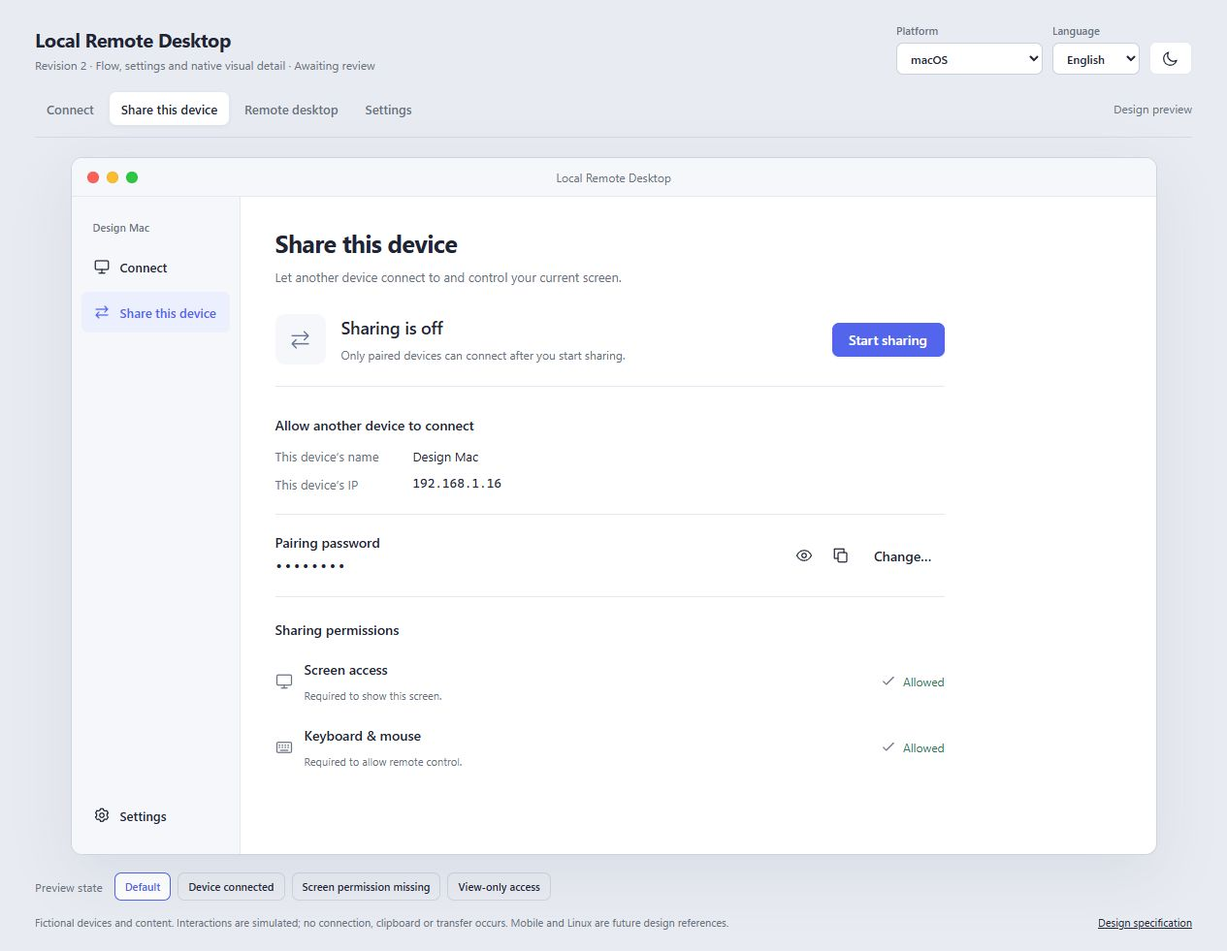
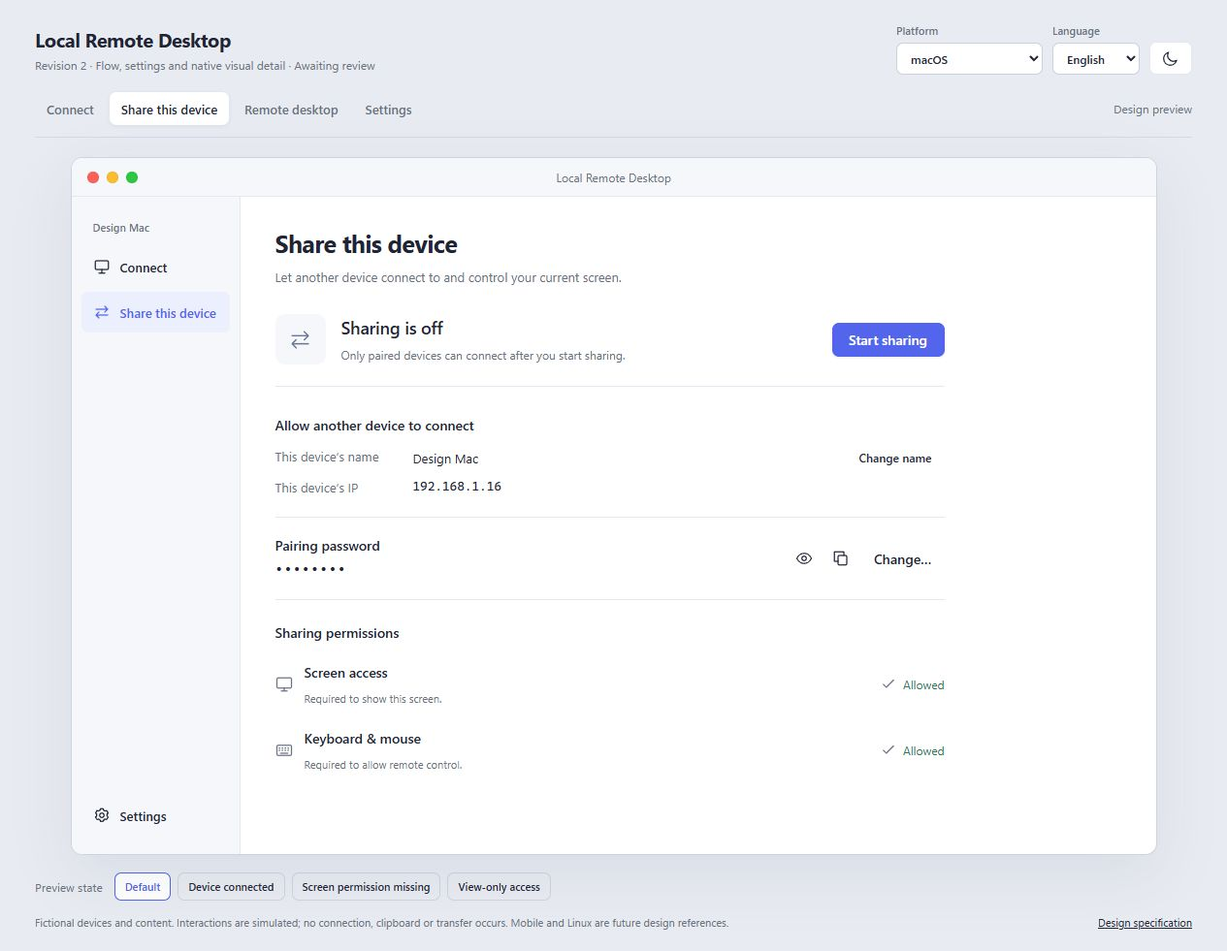
design: add local device name editing and publication contract

diff --git a/design/review/prototype.js b/design/review/prototype.js
@@ -16,7 +16,7 @@ const texts = {
     discoveredInfo:'Nearby device',knownInfo:'Previously connected device',unknownTarget:'Device information will appear after connecting.',unknownSystem:'Unknown system',manualHint:'Enter the IP and pairing password shown on the target device.',wrong:'The password is incorrect. Check it on the target device and try again.',ipError:'Enter a private or link-local IPv4 address.',
     shareIntro:'Let another device connect to and control your current screen.',off:'Sharing is off',on:'Ready for connections',inUse:'Office PC is connected',
     shareOffHint:'Only paired devices can connect after you start sharing.',shareOnHint:'Your current desktop is available to paired devices.',inUseHint:'Connected at 10:24 · Screen & control',
-    start:'Start sharing',stop:'Stop sharing',connectionDetails:'Allow another device to connect',deviceName:'This device’s name',thisIP:'This device’s IP',
+    start:'Start sharing',stop:'Stop sharing',connectionDetails:'Allow another device to connect',deviceName:'This device’s name',thisIP:'This device’s IP',nameEdit:'Change name',nameTitle:'Change this device’s name',nameHint:'Shown in the device list on other devices. Defaults to your system device name.',nameSave:'Save name',nameRestore:'Use system name',nameError:'Enter 1–32 characters without control characters.',nameSaved:'Device name updated.',
     show:'Show password',hide:'Hide password',copy:'Copy password',edit:'Change…',editTitle:'Change pairing password',newPassword:'New password',
     editHint:'Use the password below to connect to this device.',passwordHint:'8 characters, without spaces.',
     editEffect:'Saving stops sharing and disconnects the current device. Start sharing again to use the new password.',save:'Save password',cancel:'Cancel',generate:'Generate',
@@ -56,7 +56,7 @@ const texts = {
     discoveredInfo:'已发现的设备',knownInfo:'已连接的设备',unknownTarget:'连接成功后显示设备信息。',unknownSystem:'未知系统',manualHint:'输入目标设备上显示的 IP 和配对密码。',wrong:'密码不正确。请在目标设备上核对后重试。',ipError:'请输入局域网或链路本地 IPv4 地址。',
     shareIntro:'让另一台设备连接并操作你的当前屏幕。',off:'尚未共享',on:'等待连接',inUse:'Office PC 已连接',
     shareOffHint:'开始共享后，配对设备才能连接。',shareOnHint:'配对设备可以连接你的当前桌面。',inUseHint:'10:24 建立连接 · 画面与控制',
-    start:'开始共享',stop:'停止共享',connectionDetails:'被另一台设备来连接',deviceName:'本机名称',thisIP:'本机 IP',
+    start:'开始共享',stop:'停止共享',connectionDetails:'被另一台设备来连接',deviceName:'本机名称',thisIP:'本机 IP',nameEdit:'修改名称',nameTitle:'修改本机名称',nameHint:'显示在其他设备的列表中，默认使用系统本机名称。',nameSave:'保存名称',nameRestore:'使用系统名称',nameError:'请输入 1–32 个字符的名称，不含控制字符。',nameSaved:'本机名称已更新。',
     show:'显示密码',hide:'隐藏密码',copy:'复制密码',edit:'修改…',editTitle:'修改配对密码',newPassword:'新密码',
     editHint:'连接本设备时，使用下方密码。',passwordHint:'8 位，不含空格。',
     editEffect:'保存会停止共享并断开当前设备。再次开始共享后，新密码生效。',save:'保存密码',cancel:'取消',generate:'自动生成',
@@ -114,7 +114,10 @@ const devices=[
 ];
 // Authenticated responses are separate fixtures, not inferred from an IP address.
 const peerFixtures = new Map([...devices, {name:'Meeting PC',os:'Windows',ip:'192.168.1.70',kind:'screen'}].map(d=>[d.ip,{name:d.name,os:d.os,kind:d.kind}]));
-const state={page:'connect',platform:'windows',lang:'en',scenario:'normal',selected:0,sharing:false,inUse:false,reveal:false,
+// Fictional OS defaults; native clients must read their own system name.
+const systemNames={windows:'Desk PC',mac:'Design Mac',linux:'Design Linux',android:'Travel phone',ios:'Travel phone',harmony:'Travel phone'};
+function localName(){return state.localNames[state.platform]??systemNames[state.platform];}
+const state={localNames:{},page:'connect',platform:'windows',lang:'en',scenario:'normal',selected:0,sharing:false,inUse:false,reveal:false,
   password:'Blue482X',dialog:null,error:'',draft:'',draftIP:'',remember:true,inputReveal:false,options:false,keyboard:false,touch:'touchpad',fullscreen:false,
   settingTab:'connection',diagnostics:false,preferences:{text:true,files:true,reconnect:true,shortcuts:'auto',quality:'standard',theme:'system'},
   session:{text:true,files:true,shortcuts:'auto',quality:'standard'},transfer:true};
@@ -123,7 +126,7 @@ const iconButton=(name,action,label)=>`<button class="quiet icon-button" data-ac
 const choice=(id,value,keys)=>`<select id="${id}" aria-label="${esc(t(id==='defaultQuality'||id==='quality'?'quality':id==='themePref'?'theme':'shortcuts'))}">${keys.map(k=>`<option value="${k}" ${value===k?'selected':''}>${esc(t(k))}</option>`).join('')}</select>`;
 function chrome(){return mobile()?'<div class="chrome"><span>9:41</span><span aria-hidden="true">▰ 100%</span></div>':`<div class="chrome"><div class="traffic"><i></i><i></i><i></i></div><img class="brand" src="${logo}" alt=""><span>Local Remote Desktop</span><span class="window-actions" aria-hidden="true"><span>−</span><span>□</span><span>×</span></span></div>`;}
 function navButton(page,symbol){return `<button class="nav ${state.page===page?'active':''}" data-page="${page}" aria-current="${state.page===page?'page':'false'}">${icon(symbol)}<span>${t(page)}</span></button>`;}
-function navigation(){return `<aside class="rail"><div class="rail-caption">${state.platform==='mac'?'Design Mac':'Desk PC'}</div>${navButton('connect','connect')}${navButton('share','share')}<div class="rail-bottom">${state.sharing?`<div class="rail-status"><span class="dot"></span>${t('sharingIndicator')}</div>`:''}${navButton('settings','settings')}</div></aside>`;}
+function navigation(){return `<aside class="rail"><div class="rail-caption">${esc(localName())}</div>${navButton('connect','connect')}${navButton('share','share')}<div class="rail-bottom">${state.sharing?`<div class="rail-status"><span class="dot"></span>${t('sharingIndicator')}</div>`:''}${navButton('settings','settings')}</div></aside>`;}
 function bottom(){return `<nav class="bottom-nav" aria-label="${t('appName')}">${['connect','share','settings'].map(p=>`<button data-page="${p}" class="${state.page===p?'active':''}">${icon(p==='connect'?'connect':p==='share'?'share':'settings')}${t(p)}</button>`).join('')}</nav>`;}
 function heading(title,hint='',action=''){return `<div class="page-heading"><div><h2>${t(title)}</h2>${hint?`<p>${t(hint)}</p>`:''}</div>${action}</div>`;}
 function passwordField(value,id='connectPassword'){return `<div class="field"><label for="${id}">${t('password')}</label><div class="password-input"><input id="${id}" type="${state.inputReveal?'text':'password'}" value="${esc(value)}" autocomplete="off" aria-describedby="pairHint">${iconButton('eye','inputReveal',t(state.inputReveal?'hide':'show'))}</div></div>`;}
@@ -137,7 +140,7 @@ function updateManualIdentity(){const el=$('#manualIdentity');if(el)el.innerHTML
 function rememberField(){return `<label class="check"><input id="remember" type="checkbox" ${state.remember?'checked':''}>${t('remember')}</label>`;}
 function connect(){const d=devices[state.selected],offline=state.scenario==='offlineScenario';return heading('connect','intro',button(mobile()?'IP':t('manual'),'manual','quiet','plus'))+`<div class="connect-layout"><div><div class="section-title"><span>${t('nearby')}</span>${iconButton('refresh','refresh',t('refresh'))}</div><div class="device-list">${state.scenario==='empty'?`<div class="empty">${icon('connect')}<h3>${t('emptyTitle')}</h3><p>${t('emptyHint')}</p>${button(t('manual'),'manual')}</div>`:devices.map((x,i)=>`<button class="device ${i===state.selected?'selected':''} ${offline&&i===0?'offline':''}" data-device="${i}" aria-current="${i===state.selected?'true':'false'}"><span class="device-symbol">${icon(x.kind)}</span><span class="device-copy"><span class="device-title">${esc(x.name)}</span><span class="device-meta">${esc(deviceOS(x))}<span>·</span>${t(x.saved?'remembered':'newDevice')}${offline&&i===0?`<span>· ${t('offline')}</span>`:''}</span></span>${icon('arrow')}</button>`).join('')}</div></div>${state.scenario==='empty'?'':`<aside class="detail"><div class="detail-symbol">${icon(d.kind)}</div><h3>${esc(d.name)}</h3><p class="platform-name">${esc(deviceOS(d))}</p><div class="status ${offline?'muted':''}">${offline?'':`<span class="dot"></span>`}${t(offline?'offline':'ready')}</div><div class="meta-pairs"><span>${t('targetIP')}</span><span class="mono">${esc(d.ip)}</span><span>${t('access')}</span><span>${t('desktopControl')}</span></div>${d.saved?`<p class="hint">${t('returnHint')}</p>`:`<p class="hint" id="pairHint">${t('enterPassword')}</p>${passwordField(state.draft)}${rememberField()}`}${state.error&&!state.dialog?`<p class="inline-error" role="alert">${esc(state.error)}</p>`:''}${button(t('connect'),'connect','primary','',offline)}${d.saved?button(t('forget'),'forget','quiet small'):''}${offline?`<p class="hint">${t('offlineHint')}</p>`:''}${state.sharing?`<div class="role-note">${t('shareConflict')}${button(t('share'),'goShare','quiet')}</div>`:''}</aside>`}</div>`;}
 function permissionRow(title,hint,symbol,missing){return `<div class="permission-row">${icon(symbol)}<div class="permission-copy"><h4>${t(title)}</h4><p>${t(hint)}</p></div>${missing?button(t('openSettings'),'permissions','quiet'): `<span class="permission-state">${icon('check')}${t('granted')}</span>`}</div>`;}
-function share(){const mac=state.platform==='mac',phone=mobile(),missing=state.scenario==='permission';return heading('share',phone?'phoneIntro':'shareIntro')+`<div class="sharing">${missing||state.scenario==='view'?`<div class="callout">${icon('warning')}<span>${t(missing?'permHint':'viewHint')}</span></div>`:''}<div class="share-state"><div class="device-symbol">${icon(phone?'phone':'share')}</div><div class="state-copy"><h3>${t(state.inUse?'inUse':state.sharing?'on':'off')}</h3><p>${t(state.inUse?'inUseHint':state.sharing?'shareOnHint':'shareOffHint')}</p></div>${button(t(state.sharing?'stop':'start'),'sharing',state.sharing?'danger':'primary')}</div><section class="connection-info"><h4>${t('connectionDetails')}</h4><div class="address-grid"><span>${t('deviceName')}</span><span>${phone?t('phone'):mac?'Design Mac':'Desk PC'}</span><span>${t('thisIP')}</span><span class="mono">192.168.1.${phone?'62':mac?'16':'18'}</span></div></section><div class="label-row"><div class="row-copy"><h4>${t('password')}</h4><p class="password-value">${state.reveal?esc(state.password):'••••••••'}</p></div><div class="row-actions">${iconButton('eye','reveal',t(state.reveal?'hide':'show'))}${iconButton('copy','copy',t('copy'))}${button(t('edit'),'edit','quiet')}</div></div>${mac?`<section class="permission-section"><h4>${t('permissions')}</h4>${permissionRow('screen','screenHint','screen',missing)}${permissionRow('input','inputHint','keyboard',state.scenario==='view')}</section>`:''}${phone?`<div class="label-row"><div class="row-copy"><h4>${t('access')}</h4><p>${t('mobileHint')}</p></div><span class="small muted">${t('viewOnly')}</span></div>`:''}</div>`;}
+function share(){const mac=state.platform==='mac',phone=mobile(),missing=state.scenario==='permission';return heading('share',phone?'phoneIntro':'shareIntro')+`<div class="sharing">${missing||state.scenario==='view'?`<div class="callout">${icon('warning')}<span>${t(missing?'permHint':'viewHint')}</span></div>`:''}<div class="share-state"><div class="device-symbol">${icon(phone?'phone':'share')}</div><div class="state-copy"><h3>${t(state.inUse?'inUse':state.sharing?'on':'off')}</h3><p>${t(state.inUse?'inUseHint':state.sharing?'shareOnHint':'shareOffHint')}</p></div>${button(t(state.sharing?'stop':'start'),'sharing',state.sharing?'danger':'primary')}</div><section class="connection-info"><h4>${t('connectionDetails')}</h4><div class="address-grid"><span>${t('deviceName')}</span><div class="address-name"><span>${esc(localName())}</span>${button(t('nameEdit'),'nameEdit','quiet small')}</div><span>${t('thisIP')}</span><span class="mono">192.168.1.${phone?'62':mac?'16':'18'}</span></div></section><div class="label-row"><div class="row-copy"><h4>${t('password')}</h4><p class="password-value">${state.reveal?esc(state.password):'••••••••'}</p></div><div class="row-actions">${iconButton('eye','reveal',t(state.reveal?'hide':'show'))}${iconButton('copy','copy',t('copy'))}${button(t('edit'),'edit','quiet')}</div></div>${mac?`<section class="permission-section"><h4>${t('permissions')}</h4>${permissionRow('screen','screenHint','screen',missing)}${permissionRow('input','inputHint','keyboard',state.scenario==='view')}</section>`:''}${phone?`<div class="label-row"><div class="row-copy"><h4>${t('access')}</h4><p>${t('mobileHint')}</p></div><span class="small muted">${t('viewOnly')}</span></div>`:''}</div>`;}
 function toggle(key,scope='preferences'){const allowed=scope!=='session'||state.preferences[key];return `<button class="toggle ${allowed&&state[scope][key]?'on':''}" role="switch" aria-checked="${Boolean(allowed&&state[scope][key])}" aria-label="${esc(t(key))}" data-toggle="${key}" data-scope="${scope}" ${allowed?'':'disabled'}></button>`;}
 function row(title,hint,control){return `<div class="label-row setting-row"><div class="row-copy"><h4>${t(title)}</h4>${hint?`<p>${t(hint)}</p>`:''}</div>${control}</div>`;}
 function languageChoice(){return `<select id="appLang" aria-label="${t('language')}"><option value="en" ${state.lang==='en'?'selected':''}>English</option><option value="zh" ${state.lang==='zh'?'selected':''}>简体中文</option></select>`;}
@@ -151,6 +154,7 @@ function scene(){return `<div class="remote-scene" aria-label="Fictional remote 
 function viewer(){return `<div class="viewer"><div class="sessionbar"><span class="dot"></span><span class="session-target">${esc(devices[state.selected].name)}</span><span class="session-state">${t(state.scenario==='reconnectScenario'?'reconnecting':'connected')}</span><span class="spacer"></span><span class="quality">${choice('quality',state.session.quality,['smooth','standard','high'])}</span><span class="full">${iconButton('full','fullscreen',t('full'))}</span>${iconButton('more','options',t('more'))}${button(t('disconnect'),'disconnect','quiet danger')}</div><div class="desktop">${scene()}${mobile()?`<div class="touch-guide">${icon('pointer')}<span>${t('phoneScale')}</span><span>${t(state.touch==='touchpad'?'touchHint':'directHint')}</span></div>`:''}</div>${state.scenario==='transferScenario'&&state.transfer?`<aside class="transfer"><div class="transfer-head"><span>${t('transfer')}</span>${button(t('cancelTransfer'),'cancelTransfer','quiet')}</div><p>${t('transferHint')}</p><div class="progress" role="progressbar" aria-label="${t('transfer')}" aria-valuenow="68" aria-valuemin="0" aria-valuemax="100"><span></span></div></aside>`:''}${state.scenario==='reconnectScenario'?`<div class="reconnect"><div><h3>${t('reconnecting')}</h3><p>${t('reconnectMsg')}</p>${button(t('cancelReconnect'),'disconnect')}</div></div>`:''}<div class="mobile-dock">${button(t(state.touch==='touchpad'?'touchpad':'direct'),'touch','selected','pointer')}${button(t('keyButton'),'keyboard','','keyboard')}${iconButton('more','options',t('more'))}</div>${state.options?`<section class="session-options"><h4>${t('sessionOnly')}</h4><p class="hint">${t('sessionHint')}</p>${mobile()?row('quality','',choice('quality',state.session.quality,['smooth','standard','high'])):''}${row('text','',toggle('text','session'))}${row('files','',toggle('files','session'))}${row('shortcuts','',choice('sessionShortcuts',state.session.shortcuts,['auto','native']))}${button(t('release'),'release','quiet','keyboard')}</section>`:''}${state.keyboard&&mobile()?`<div class="keyboard-preview">${'QWERTYUIOPASDFGHJKLZXCVBNM'.split('').map(k=>button(k,'key')).join('')}${button('Space','key','space-key')}</div>`:''}</div>`;}
 function dialog(){if(!state.dialog)return '';let title='',hint='',fields='',submit='connect';switch(state.dialog){
  case'manual':title=t('manual');hint=t('manualHint');fields=`<div class="field"><label for="draftIP">${t('targetIP')}</label><input id="draftIP" inputmode="decimal" value="${esc(state.draftIP)}" placeholder="192.168.1.24" autocomplete="off"></div><div id="manualIdentity" aria-live="polite">${manualIdentity()}</div>${passwordField(state.draft,'draft')}${rememberField()}`;break;
+ case'name':title=t('nameTitle');hint=t('nameHint');submit='nameSave';fields=`<div class="field"><label for="draft">${t('deviceName')}</label><input id="draft" value="${esc(state.draft)}" autocomplete="off"></div>${button(t('nameRestore'),'nameRestore','quiet')}`;break;
  case'edit':title=t('editTitle');hint=t('editHint');submit='save';fields=`<div class="field"><label for="draft">${t('newPassword')}</label><input id="draft" value="${esc(state.draft)}" autocomplete="off"></div><div class="draft-actions"><span class="small muted">${t('passwordHint')}</span>${button(t('generate'),'generate','generate-button','refresh')}</div><div class="callout">${icon('info')}<span>${t('editEffect')}</span></div>`;break;
  case'forget':title=t('forget');hint=t('forgetHint');submit='forgetConfirm';break;
  case'role':title=t('stopConfirm');hint=t('stopExplain');submit='stopConnect';break;
@@ -161,7 +165,7 @@ function render(){document.documentElement.lang=state.lang==='zh'?'zh-CN':'en';$
  $('#scenarios').innerHTML=`<span>${t('scenario')}</span>`+cases.map(k=>`<button class="${(state.page==='settings'?state.settingTab:state.scenario)===k?'active':''}" data-scenario="${k}">${t(k)}</button>`).join('');
 }
 let focusAction=null,pendingTarget=null;
-function openDialog(type){focusAction=document.activeElement?.dataset.action;state.dialog=type;state.error='';state.inputReveal=false;if(type==='edit')state.draft='';render();$('.dialog input,.dialog button')?.focus();}
+function openDialog(type){focusAction=document.activeElement?.dataset.action;state.dialog=type;state.error='';state.inputReveal=false;if(type==='edit')state.draft='';if(type==='name')state.draft=localName();render();$('.dialog input,.dialog button')?.focus();}
 function closeDialog(){state.dialog=null;state.error='';state.draft='';state.draftIP='';render();if(focusAction)$(`[data-action="${focusAction}"]`)?.focus();}
 function toast(message){$('.toast')?.remove();const el=document.createElement('div');el.className='toast';el.setAttribute('role','status');el.textContent=message;$('#app').append(el);setTimeout(()=>el.remove(),3500);}
 function privateIP(value){if(!/^(\d{1,3}\.){3}\d{1,3}$/.test(value))return false;const a=value.split('.').map(Number);if(a.some(n=>n>255)||a[3]===0||a[3]===255)return false;return a[0]===10||a[0]===192&&a[1]===168||a[0]===172&&a[1]>=16&&a[1]<=31||a[0]===169&&a[1]===254;}
@@ -172,10 +176,13 @@ function action(name){switch(name){
  case'connect':if(!devices[state.selected].saved&&state.draft!=='Blue482X'){validationError(t('wrong'));return;}startSession();break;
  case'manual':state.draft='';state.draftIP='';openDialog('manual');break;
  case'edit':openDialog('edit');break;
+ case'nameEdit':openDialog('name');break;
+ case'nameRestore':state.draft=systemNames[state.platform];$('#draft').value=state.draft;$('#draft').focus();break;
  case'forget':openDialog('forget');break;
  case'close':pendingTarget=null;closeDialog();break;
  case'generate':state.draft=['Cobalt72','Violet83','Indigo64'].find(value=>value!==state.password&&value!==state.draft);$('#draft').value=state.draft;$('#draft').focus();break;
  case'submit':if(state.dialog==='manual'){const ip=state.draftIP.trim();if(!privateIP(ip)){validationError(t('ipError'));break;}if(state.draft!=='Blue482X'){validationError(t('wrong'));break;}const peer=peerFixtures.get(ip);pendingTarget={name:peer?.name||ip,os:peer?.os||'',kind:peer?.kind||'screen',ip,source:'authenticated',saved:state.remember,online:true};startSession();}
+ else if(state.dialog==='name'){const value=state.draft.trim();if(Array.from(value).length<1||Array.from(value).length>32||/[\p{Cc}]/u.test(value)){validationError(t('nameError'));break;}if(value===systemNames[state.platform])delete state.localNames[state.platform];else state.localNames[state.platform]=value;closeDialog();toast(t('nameSaved'));}
  else if(state.dialog==='edit'){const value=state.draft;if(!/^\S{8}$/u.test(value)){validationError(t('editValidate'));break;}if(value===state.password){validationError(t('unchanged'));break;}state.password=value;state.sharing=false;state.inUse=false;state.reveal=false;closeDialog();toast(t('savedToast'));}
  else if(state.dialog==='forget'){devices[state.selected].saved=false;closeDialog();}
  else if(state.dialog==='role'){state.sharing=false;state.inUse=false;state.dialog=null;startSession();}break;

diff --git a/design/review/styles.css b/design/review/styles.css
@@ -25,3 +25,5 @@ input:not([type=checkbox]),select{border:1px solid #cbd0dd;border-radius:7px;bac
 
 /* Explicit secondary action; Save remains the dialog’s primary action. */
 .generate-button{border-color:var(--accent);color:var(--accent);background:var(--selection);font-weight:600;gap:7px;min-height:36px;padding:8px 12px}.generate-button:hover{background:var(--accent);color:#fff}.manual-peer{display:flex;align-items:center;gap:10px;padding:11px 12px;border:1px solid var(--line);border-radius:8px;background:var(--soft)}.manual-peer strong{display:block;font-size:13px;font-weight:600}.manual-peer span:not(.device-symbol){display:block;font-size:11px;color:var(--muted);margin-top:5px}.manual-peer .device-symbol{width:34px;height:34px}.manual-peer .icon{width:22px;height:22px}
+
+.address-name{display:flex;align-items:center;justify-content:space-between;gap:12px;min-width:0}.address-name>span{overflow-wrap:anywhere;color:var(--ink)!important}.address-name button{flex-shrink:0;margin-top:-7px;margin-bottom:-7px}.rail-caption{overflow-wrap:anywhere}

diff --git a/design/review/revision-2.md b/design/review/revision-2.md
@@ -61,6 +61,18 @@ behavior**, not claims of implementation in the current alpha.
   not imply that capability.
 - Share distinguishes Off, Available and In use. Navigation does not stop sharing.
   Stop sharing is visible locally and ends the active remote session.
+- Share → This device’s name has a Change name action. Default to the local
+  system name; a saved override belongs to this app, not OS computer settings.
+  Edit opens a prefilled draft; Cancel preserves the name and Use system name
+  fills the draft only. Save accepts 1–32 Unicode characters without controls,
+  trims surrounding whitespace and updates the local name without stopping
+  sharing or changing pairing. Use the same name in discovery and authenticated
+  peer metadata; platform is app-reported and cannot be edited as a name.
+  The current Mac advertisement uses its system hostname and Windows parses
+  its DNS-SD name plus platform TXT record. Configurable names and manual-IP
+  authenticated names remain proposed native work, not completed capabilities.
+  Native propagation must refresh one existing record, retaining credentials;
+  do not use a mutable display name as the saved-password identity.
 - Permission recovery belongs to Share. Screen denial blocks sharing; missing
   input permission allows a clearly labeled view-only session. Opening Connect
   does not trigger these permissions. The preview never opens system settings.

diff --git a/docs/design.md b/docs/design.md
@@ -48,6 +48,14 @@ New passwords use exactly eight characters without spaces, both manually and
 automatically. Generate is a clearly bordered secondary action. Existing native
 passwords remain usable until explicitly changed; updates must not truncate them.
 
+Share → This device’s name → Change name edits the app’s advertised display name.
+The default comes from the local system; Use system name fills the draft, Cancel
+preserves the saved value, and Save updates it without ending sharing or changing
+the password. The name is the same in discovery and authenticated connection
+metadata; the target app reports its platform automatically. Renaming does not
+rename the OS computer, create another device record or discard saved credentials.
+The native name editor and authenticated name field still need implementation.
+
 The current one-role restriction has an explicit Stop sharing & connect action
 after target validation. Cancel preserves the existing sharing session; do not
 silently stop it on device selection. Future concurrent roles need separate

diff --git a/docs/zh-CN/design.md b/docs/zh-CN/design.md
@@ -36,6 +36,12 @@
 新设密码统一为 8 位且不含空格，手动填写和自动生成遵循同一规则。“自动生成”
 使用明确的描边按钮。原生客户端已有密码在主动修改前继续有效，更新不能截短密码。
 
+“共享此设备 → 本机名称 → 修改名称”编辑本应用对外展示的名称，默认读取系统名称。
+“使用系统名称”只填写草稿，取消保留原值，保存后更新名称而不停止共享或修改密码。
+自动发现和已认证连接使用同一名称，系统类型由目标应用自动报告。改名不改变操作
+系统中的电脑名称，不新增重复设备，也不清除保存的配对凭据。原生名称编辑入口和
+认证后名称字段仍待实现。
+
 当前单一角色的限制使用明确的“停止共享并连接”处理，先检查目标信息，再由用户
 明确执行；取消保留现有共享，选中设备不会自动停掉共享。未来并行角色需要单独
 实现与验收。

diff --git a/design/review/README.md b/design/review/README.md
@@ -43,3 +43,9 @@ exactly eight characters. These fixtures are not usable real-device credentials.
 Latest review details: [manual target information](manual-address.jpg),
 [password editor](password-edit.jpg), and
 [device added after simulated authentication](manual-connected.jpg).
+
+Share → This device’s name → Change name demonstrates local display-name editing.
+Default names are fictional OS fixtures. Edits last only for the current preview;
+no OS settings, disk storage or real LAN announcements are changed. Cancel and
+Use system name operate on the draft; saving retains sharing and the password.
+See the [name editor](local-name.jpg).
